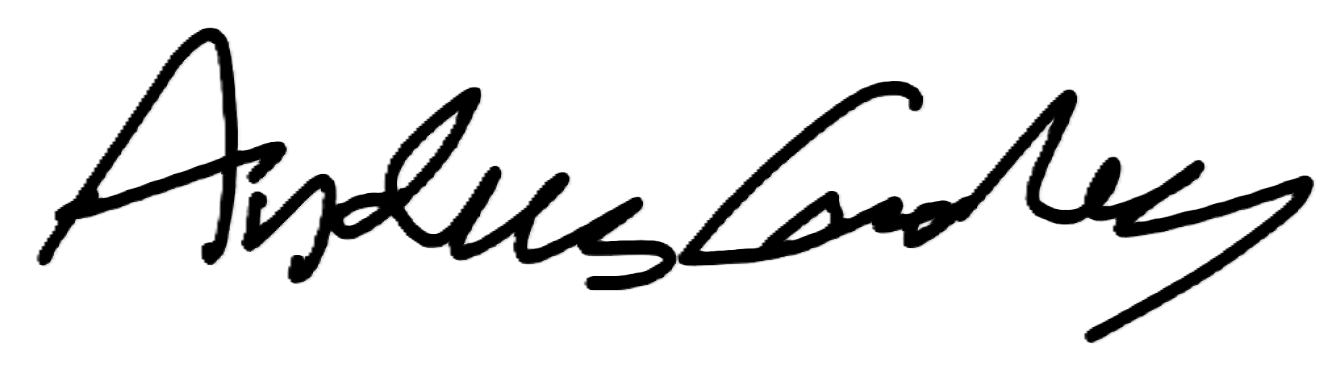
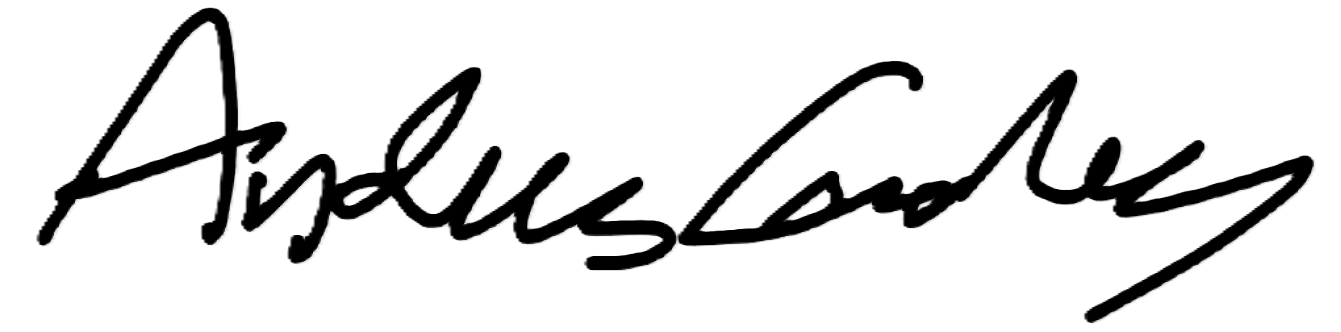
Update forord

diff --git a/template/forord.tex b/template/forord.tex
@@ -3,7 +3,7 @@
 
 Dette er den ofisielle ordboken for Linjeforeningen Elektra. Boken er til for nye studenter slik at de kan sette seg inn i sjargongen i linjeforeningen. Den er også et måte for gamle medlemmer å holde seg oppdatert rundt nye begreper slik at de lettere kan glemme at de blir eldre og snart skal dø. Latex dokumentet er åpent for alle medlemmer av Elektra, slik at man kan føre inn i ordene man mener burde være med, men kureres av en utpekt person. Den offisielle versjonen ligger på nettsiden til Elektra og vil oppdateres med jevne mellomrom. Ordboken er lagt opp alfabetisk og båre ord og setninger er tillatt. Noen ord starter ikke på bokstaver engang. For hver innlegg vil først ordet/begrepet stå. I parentes vil ordet/begrepet stå på nynorsk. Deretter vil ordet/begrepet oppsummeres i et stikkord før en utfyllende forklaring følger. Jeg håper denne ordboken er til nytte for medlemmene og at den lever videre i Elektras historie.
 
-\vspace{5mm}
+\vspace{\forordskip}
 
 Penger er alvorlig.
 
@@ -12,9 +12,15 @@ Penger er alvorlig.
 \vspace{\forordgap}
 \hspace*{1em}
 
-Etter Henrik sitt langvarige misbruk av definisjonsmakt har jeg nå tatt over som ordbokansvarlig. Tradisjon tro har jeg, i likhet med ham, båret Elektras økonomi på ryggen og svidd en Elektra-E på høyre rumpeball. Dette gir meg, i følge eldgamle og improviserte skrifter, retten til å videreføre et av Elektras viktigste dokument; nemlig ordboka. Jeg lover å holde denne hellige skriften oppdatert med ny sjargong og stadig dummere uttrykk som får førstisene til å lure på om de har valgt feil studie, og som får gamle medlemmer til å mimre om en tid før ansvar og regelverk. Min jobb er å sørge for at ingen av disse begrepene går tapt, selv om alle som bruker dem sakte visner av høyt alkoholkonsum og dårlige prioriteringer.
+Etter Henrik sitt langvarige misbruk av definisjonsmakt har jeg nå tatt over som ordbokansvarlig. 
+Tradisjon tro har jeg, i likhet med ham, båret Elektras økonomi på ryggen og svidd en Elektra-E på høyre rumpeball. 
+Dette gir meg, i følge eldgamle og improviserte skrifter, retten til å videreføre et av Elektras viktigste dokument; nemlig ordboka. 
+Som min første embetshandling har jeg dratt den hellige skriften inn i nåtiden: ordboka ligger nå i et åpent GitHub-repo og oppdateres automatisk hver gang et nytt ord blir godkjent. 
+Mangler du et ord, kan du foreslå det som et issue via \nyttordboks.
+Jeg lover å holde denne hellige skriften oppdatert med ny sjargong og stadig dummere uttrykk som får førstisene til å lure på om de har valgt feil studie, og som får gamle medlemmer til å mimre om en tid før ansvar og regelverk. 
+Min jobb er å sørge for at ingen av disse begrepene går tapt, selv om alle som bruker dem sakte visner av høyt alkoholkonsum og dårlige prioriteringer.
 
-\vspace{5mm}
+\vspace{\forordskip}
 
 Penger er lættis.
 \vspace{2mm}

diff --git a/template/ordbok.tex b/template/ordbok.tex
@@ -41,13 +41,19 @@
 
 \usepackage{hyperref}
 \usepackage{nameref}
+\urlstyle{same} % links in the running text use the normal font
 \ifdefined\ordbokprint
 \hypersetup{hidelinks} % no coloured link boxes on paper
 \newcommand{\signwidth}{0.32\textwidth} % foreword signatures, small enough to fit A5
 \newcommand{\forordgap}{0mm}
+\newcommand{\forordskip}{1mm}
+\setlength{\emergencystretch}{2em} % narrow A5 lines: stretch rather than overflow
+\newcommand{\nyttordboks}{QR-koden på baksiden} % the foreword points to the box with the form
 \else
+\newcommand{\nyttordboks}{boksen nederst på siden}
 \newcommand{\signwidth}{0.40\textwidth}
 \newcommand{\forordgap}{10mm}
+\newcommand{\forordskip}{5mm}
 \fi
 
 
